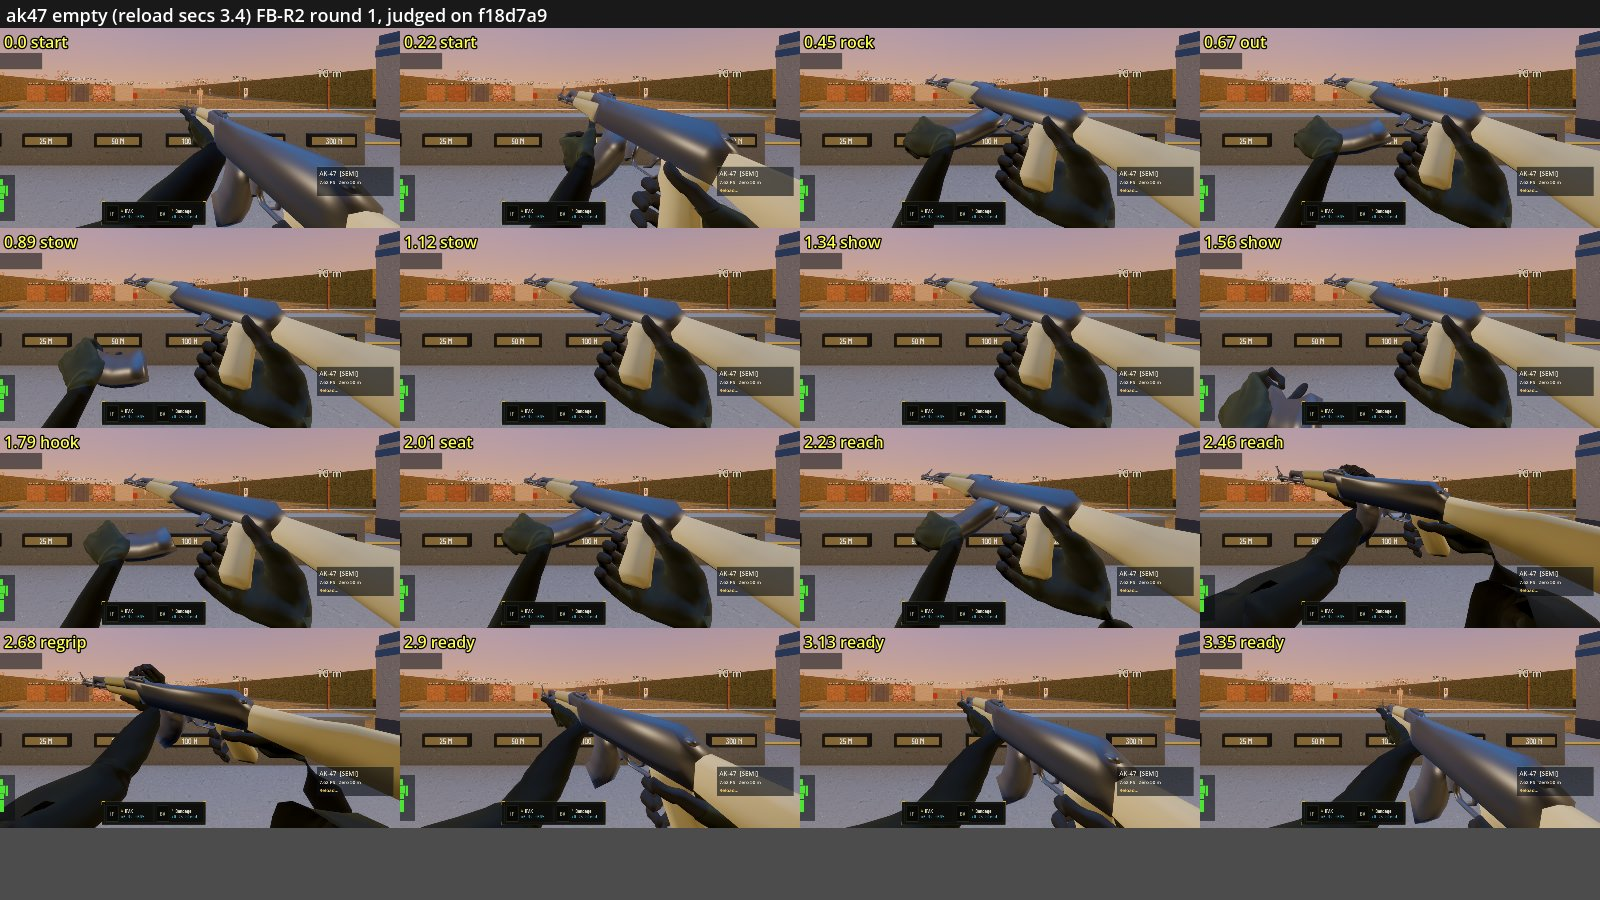
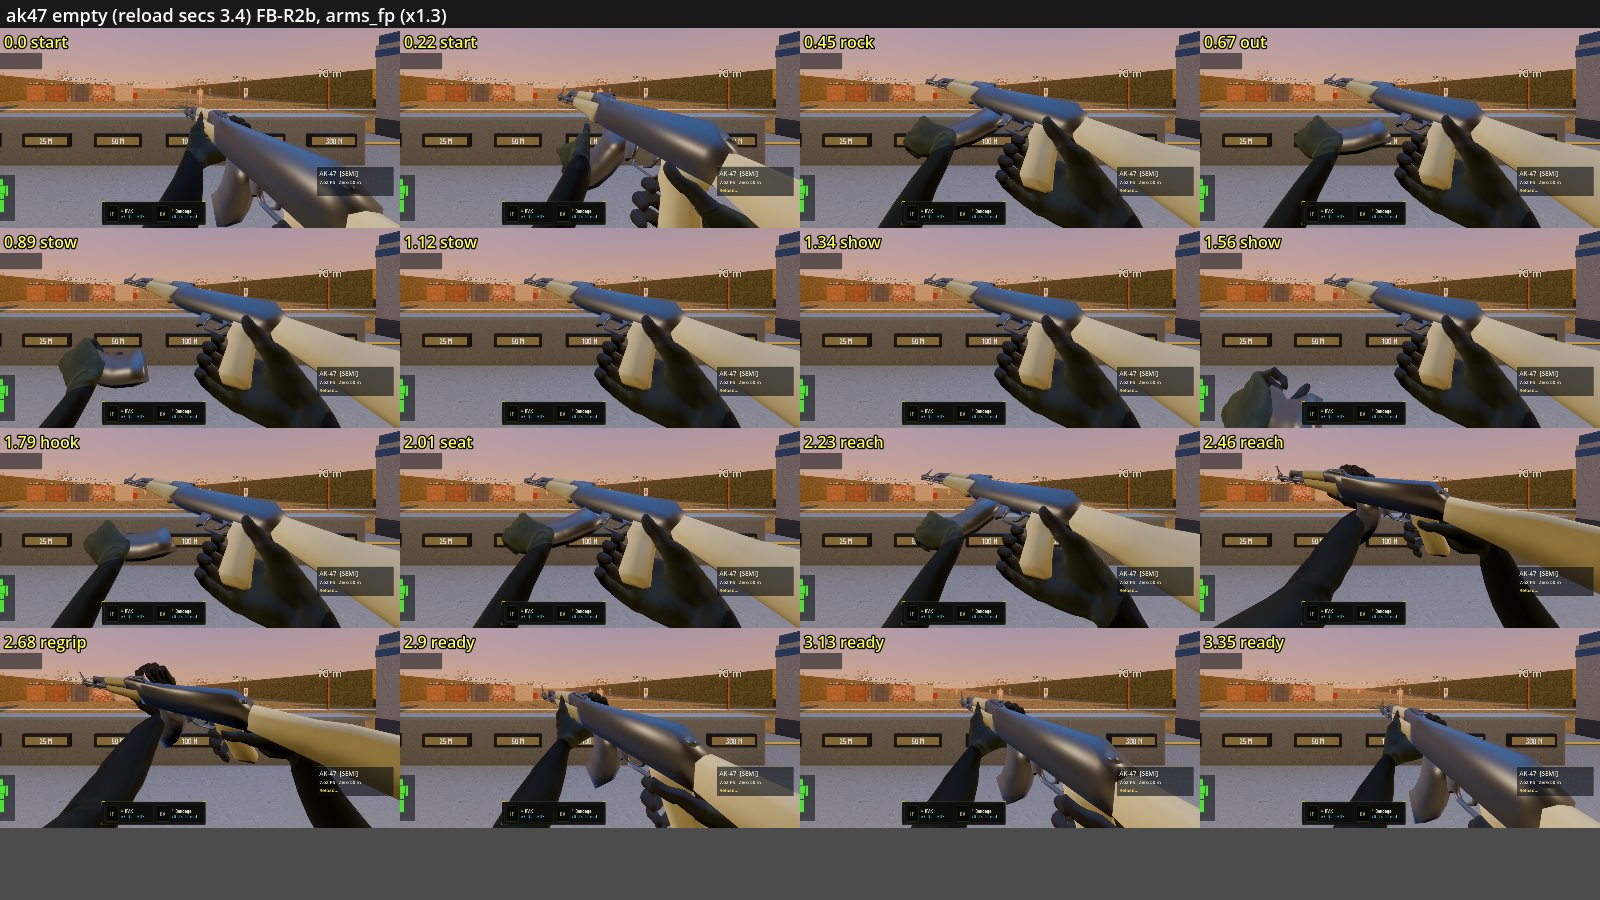
FB-R2b: hinged reload parts (ReloadHinge), non-detachable reloads: shotgun tube, Garand en-bloc, revolver cylinder

diff --git a/docs/art/reload/SCORES.md b/docs/art/reload/SCORES.md
@@ -196,3 +196,18 @@ hidden in the stock ahead of the guard. Reference: EFT AXMC / Mosin (box-mag var
 | mosin | plain | G-1 | 7 | 2 | 1 | 1 | 1 | 2 | (a) The 5-round box is small and dark under the palm (0.75-2.5): hold it 2 cm lower so its front shows. (b) Gun rolled so the stock's underside fills the right half. |
 | mosin | empty | G-1 | 7 | 2 | 1 | 1 | 1 | 2 | As plain, then the BoltCycle: right hand to the knob, lift, back, forward 3.04-3.6, reads like the after-shot cycle. The left hand stays on the fore-end. |
 | mosin | fast | - | - | | | | | | Not rendered (same plan as the AXMC fast). |
+
+## FB-R2b (2026-10-17, branch feat/reload-groups2, merged arms: arms_fp x1.3, shoulders 4 cm behind the eye, slid support hold)
+Regression check with the new arms (ak47 empty, m4a1 plain, sniper empty; plus mosin plain / empty, sniper fast seen): no
+regression. Hands land on the same points; the AK rack forearm is no bigger. Scores stand: ak47 empty 8, m4a1 plain 8,
+sniper empty 7. The 6 reload FAILs on the merged tree were frame 0 only (test started before FpArms set hold_l), 68c0daa.
+
+New: hinged parts (`ReloadHinge`, rig "hinge" = box / pivot / axis / angle, phases "open" 0..1), non-detachable timelines
+(tube / en-bloc: no chamber-time split, the logic's seconds as before), loose rounds (rig "loose": the shell is hidden at rest).
+Sheets are the `--empty` reload (tube / en-bloc only reload when not full / empty; fast = plain for these).
+
+| gun | reload | round | score | 1 | 2 | 3 | 4 | 5 | top 3 fixes (concrete: which phase, which number) |
+|---|---|---|---|---|---|---|---|---|---|
+| shotgun | one shell | G-2 | 7 | 2 | 2 | 1 | 1 | 1 | Red shell from the belt (0.28), under the port, thumbed in (0.45). (a) Gun returns to rest after every shell: consecutive presses bob (keep the loading pose while R is held again: needs a "next press" hook). (b) Port faces down even at -1.25 roll. Pump on empty = the existing cycle (unchanged). |
+| garand | en-bloc | G-2 | 7 | 1 | 1 | 1 | 2 | 2 | Clip pings out, new clip above the receiver, thumbed down, hand clears, bump. (a) The pinged clip still shows its rounds (Magazine bone = clip + rounds). (b) Forearm up the centre ~15 % at press 1.36-1.7. (c) No op-rod travel (no bone). |
+| revolver | cylinder | G-2 | 7 | 1 | 2 | 1 | 1 | 2 | Cylinder swings out on its crane (1.98), muzzle up, empties fall, speedloader in, closed. (a) The open cylinder is mostly behind the left hand 0.66-1.65. (b) Rounds / speedloader are a plain box. |
